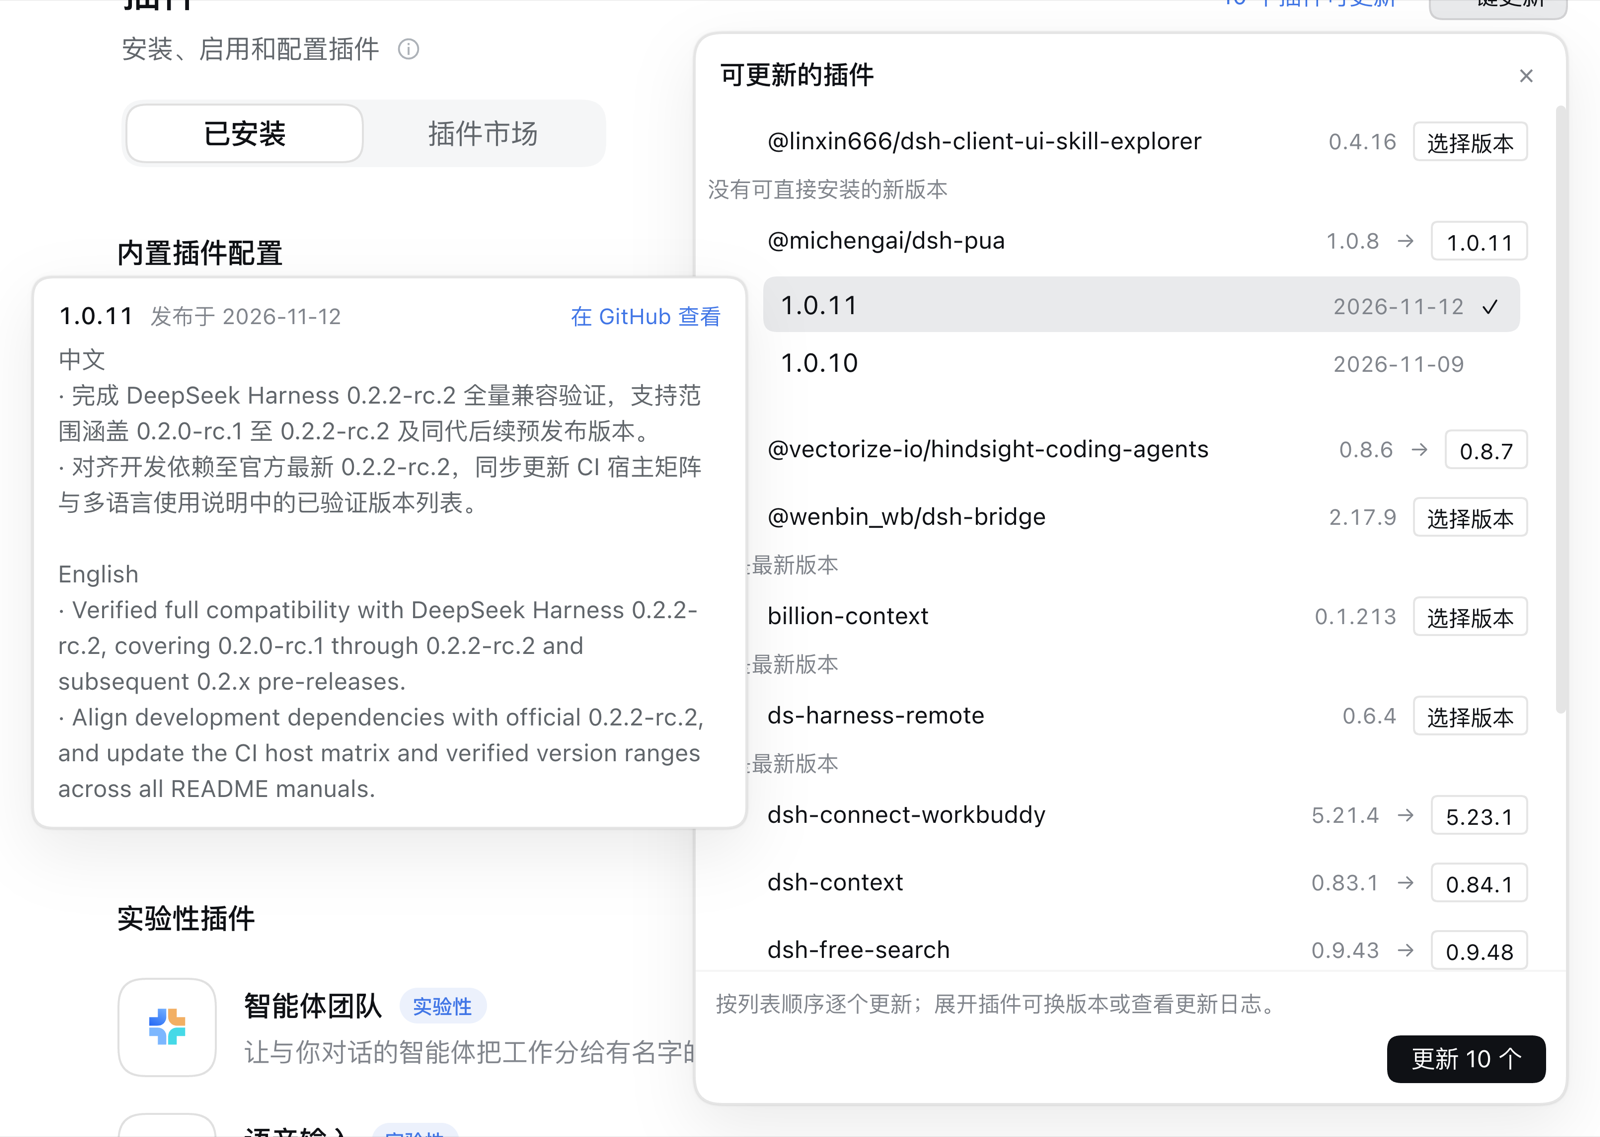
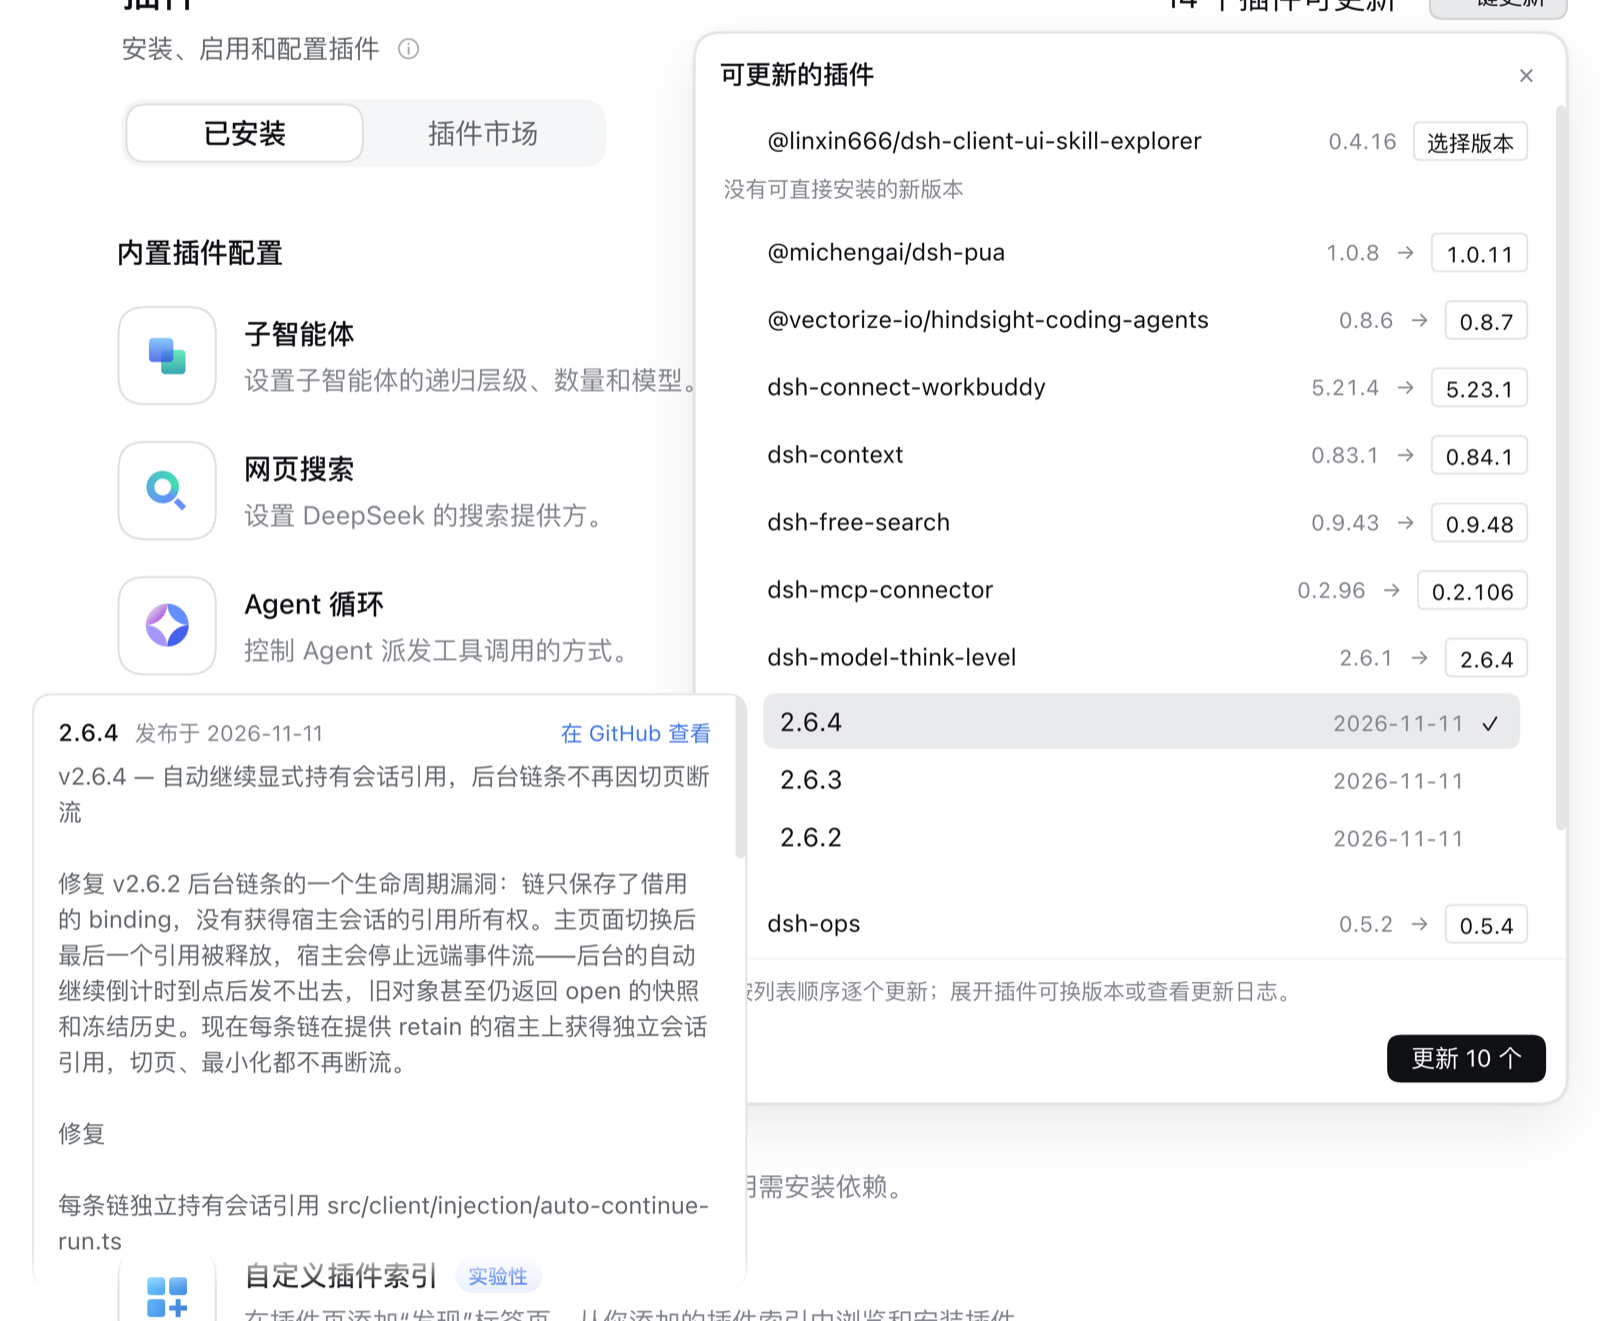
fix: hide up-to-date rows and never mistake an unread version for none
The panel disagreed with the official list in two ways, both traced to the
same mistake: treating "listBundles says updatable" and "the version read
did not land" as if they meant "there is nothing newer here".

- `listBundles` marks a package updatable when it *could* be updated; the
  registry answer may still hold no versions. Those rows claimed "已是最新
  版本" and pushed the real updates below the fold. They are hidden now, and
  an empty answer is no longer cached, so the next open asks again.
- A row whose version read failed showed "正在检查更新" forever, and the
  footer counted only rows that already had a target — so a batch could read
  "更新 0 个" and stay disabled. That is exactly how a real update (the
  reported `dsh-model-think-level` 2.6.1) looked undetected. The footer now
  counts every row the run will attempt, and the run re-reads those rows
  before deciding; a row that still has no target is reported as skipped
  instead of disappearing.

Live: 14 rows → 11 (three empty answers hidden), `dsh-model-think-level`
picked 2.6.4 and lists 2.6.4/2.6.3/2.6.2, footer reads "更新 10 个".

diff --git a/client.js b/client.js
@@ -219,14 +219,45 @@
   function bulkSummary(items) {
     let ok = 0;
     let failed = 0;
+    let skipped = 0;
     let pending = 0;
     for (const item of Array.isArray(items) ? items : []) {
       if (!item) continue;
       if (item.state === 'done') ok += 1;
       else if (item.state === 'failed') failed += 1;
+      else if (item.state === 'skipped') skipped += 1;
       else if (item.state === 'idle') pending += 1;
     }
-    return { ok, failed, pending };
+    return { ok, failed, skipped, pending };
+  }
+
+  /** The rows a run will actually try: they have a target, or their version read
+   * never landed and the run re-reads them first. A row that was read but offers
+   * nothing installable here stays visible yet is not attempted. */
+  function bulkTargets(items) {
+    const out = [];
+    for (const item of Array.isArray(items) ? items : []) {
+      if (!item || item.state !== 'idle') continue;
+      if (!item.to && item.phase === 'listed') continue;
+      out.push(item);
+    }
+    return out;
+  }
+
+  /** The rows the panel shows. `listBundles` calls a package updatable when it
+   * *could* be updated, not when a newer version exists, so a listed answer
+   * with no versions at all means "nothing newer" — that row is hidden instead
+   * of being reported as up to date. A row whose versions exist but none can be
+   * installed here stays visible: it carries information the user needs. */
+  function bulkRows(items) {
+    const out = [];
+    for (const item of Array.isArray(items) ? items : []) {
+      if (!item) continue;
+      const versions = (item.list && item.list.versions) || [];
+      if (item.phase === 'listed' && versions.length === 0) continue;
+      out.push(item);
+    }
+    return out;
   }
 
   function messageOf(error) {
@@ -273,6 +304,8 @@
       outputOf,
       updatableBundles,
       bulkSummary,
+      bulkRows,
+      bulkTargets,
     },
     factory() {
       const SEL = {
@@ -509,10 +542,12 @@
           allFailed: '失败',
           allSkipped: '已跳过',
           allStopped: '已停止，剩余 {count} 个未处理',
+          allSkippedDetail: '{count} 个已跳过',
           allStop: '停止',
           allPick: '选择版本',
           allHint: '按列表顺序逐个更新；展开插件可换版本或查看更新日志。',
           allRetry: '重新读取',
+          allStuck: '{count} 个版本尚未取到',
           allEmpty: '全部插件已是最新版本',
         },
         en: {
@@ -590,10 +625,12 @@
           allFailed: 'Failed',
           allSkipped: 'Skipped',
           allStopped: 'Stopped with {count} left to process',
+          allSkippedDetail: '{count} skipped',
           allStop: 'Stop',
           allPick: 'Choose version',
           allHint: 'Plugins update one after another. Expand one to change its version or read release notes.',
           allRetry: 'Read again',
+          allStuck: '{count} not read yet',
           allEmpty: 'Everything is up to date',
         },
       };
@@ -1930,24 +1967,30 @@
          * every row already knows its default target by the time a run starts. */
         function primeBulkVersions(item, force) {
           const cached = force ? null : fresh(versionCache.get(item.name));
-          if (cached) {
+          /* An empty list may just mean the registry call failed on the Host.
+           * Trusting it would hide a real update for the whole TTL. */
+          if (cached && ((cached.versions && cached.versions.length) || 0) > 0) {
             applyBulkList(item, cached);
             if (bulk.open) renderBulk();
-            return;
+            return Promise.resolve(item);
           }
           item.phase = 'loading';
           item.error = '';
-          listVersions(item.name, versionPending, force).then((list) => {
-            if (disposed) return;
-            if (list && list.status === 'listed') versionCache.set(item.name, { list, at: Date.now() });
+          return listVersions(item.name, versionPending, force).then((list) => {
+            if (disposed) return item;
+            if (list && list.status === 'listed' && (list.versions || []).length > 0) {
+              versionCache.set(item.name, { list, at: Date.now() });
+            }
             applyBulkList(item, list);
             if (bulk.open) renderBulk();
+            return item;
           }).catch((error) => {
-            if (disposed) return;
+            if (disposed) return item;
             item.phase = 'error';
             item.error = userMessage(error);
             warn(`listVersions(${item.name})`, error);
             if (bulk.open) renderBulk();
+            return item;
           });
         }
 
@@ -2011,7 +2054,9 @@
           }
           if (bulk.phase === 'empty') return [el('div', { class: 'pue-panel-empty' }, t('allEmpty'))];
           if (bulk.phase === 'done') return [bulkDoneNodes()];
-          return [el('ul', { class: 'pue-bulk', role: 'list' }, bulk.items.map((item) => bulkItemNode(item)))];
+          const rows = bulkRows(bulk.items);
+          if (rows.length === 0) return [el('div', { class: 'pue-panel-empty' }, t('allEmpty'))];
+          return [el('ul', { class: 'pue-bulk', role: 'list' }, rows.map((item) => bulkItemNode(item)))];
         }
 
         function bulkItemNode(item) {
@@ -2154,7 +2199,7 @@
         }
 
         function bulkDoneNodes() {
-          return el('div', { class: 'pue-bulk-done' }, bulk.items.map((item) => {
+          return el('div', { class: 'pue-bulk-done' }, bulkRows(bulk.items).filter((item) => item.state !== 'idle').map((item) => {
             const tone = item.state === 'failed' ? 'failed' : item.state === 'done' ? 'done' : '';
             const detail = item.state === 'done'
               ? (item.to || '')
@@ -2187,12 +2232,12 @@
             ];
           }
           if (bulk.phase === 'done') {
-            const summary = bulkSummary(bulk.items);
+            const summary = bulkSummary(bulkRows(bulk.items));
+            const detail = t('allDoneDetail', summary)
+              + (summary.skipped ? ` · ${t('allSkippedDetail', { count: summary.skipped })}` : '');
             return [
               el('div', { class: 'pue-bulk-note' },
-                summary.failed
-                  ? `${t('allPartial')} · ${t('allDoneDetail', summary)}`
-                  : t('allDoneDetail', summary)),
+                summary.failed ? `${t('allPartial')} · ${detail}` : detail),
               el('div', { class: 'pue-actions' },
                 el('span', { class: 'pue-spacer' }),
                 el('button', {
@@ -2203,17 +2248,24 @@
             ];
           }
           if (bulk.phase !== 'listed') return [];
-          const ready = bulk.items.filter((item) => item.state === 'idle' && item.to).length;
+          const targets = bulkTargets(bulk.items);
+          const ready = targets.filter((item) => item.to).length;
+          /* Rows whose version read never landed are re-read by the run itself,
+           * so a batch with no target yet is still runnable. A disabled button
+           * reading "update 0" is exactly how a real update looks undetected. */
+          const stuck = targets.length - ready;
+          const label = t('allRun', { count: targets.length });
           return [
-            el('div', { class: 'pue-bulk-note' }, t('allHint')),
+            el('div', { class: 'pue-bulk-note' },
+              stuck && ready ? `${t('allHint')} · ${t('allStuck', { count: stuck })}` : t('allHint')),
             el('div', { class: 'pue-actions' },
               el('span', { class: 'pue-spacer' }),
               el('button', {
                 class: 'pue-primary',
                 type: 'button',
-                disabled: ready === 0,
+                disabled: targets.length === 0,
                 onclick: () => runBulk(),
-              }, t('allRun', { count: ready }))),
+              }, label)),
           ];
         }
 
@@ -2223,17 +2275,31 @@
          * progress line instead of opening a card popover. */
         async function runBulk() {
           if (bulk.phase === 'running') return;
-          if (!bulk.items.some((item) => item.state === 'idle')) return;
+          const rows = bulkTargets(bulk.items);
+          if (rows.length === 0) return;
           bulk.phase = 'running';
           bulk.cancelled = false;
           bulk.currentName = '';
           bulk.index = 0;
-          bulk.total = bulk.items.filter((item) => item.state === 'idle').length;
+          bulk.total = 0;
           bulk.expanded = null;
           hideBulkNotes();
           renderBulk();
           syncBulkButton();
-          for (const item of bulk.items) {
+          /* A row whose version read failed or was still in flight is not the
+           * same thing as "nothing to install". Skipping it silently is what
+           * makes a real update look undetected, so re-read it first. */
+          for (const item of rows) {
+            if (bulk.cancelled || item.to || item.phase === 'listed') continue;
+            bulk.currentName = item.name;
+            renderBulk();
+            await primeBulkVersions(item, true);
+            if (disposed) return;
+          }
+          bulk.total = rows.filter((item) => item.to).length;
+          bulk.currentName = '';
+          renderBulk();
+          for (const item of rows) {
             if (item.state !== 'idle') continue;
             if (bulk.cancelled) {
               item.state = 'skipped';
@@ -2268,6 +2334,11 @@
             versionCache.delete(item.name);
             renderBulk();
             if (ok) schedule();
+          }
+          for (const item of bulkRows(bulk.items)) {
+            if (item.state !== 'idle') continue;
+            item.state = 'skipped';
+            item.error = item.phase === 'listed' ? t('noneInstallable') : t('unknown');
           }
           bulk.phase = 'done';
           bulk.currentName = '';
